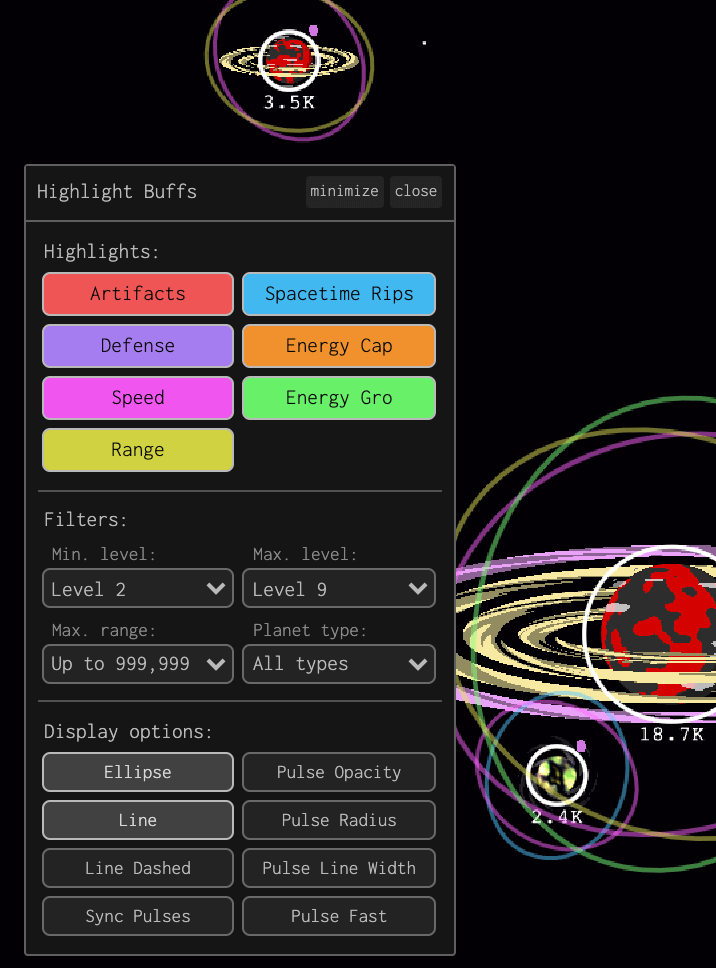
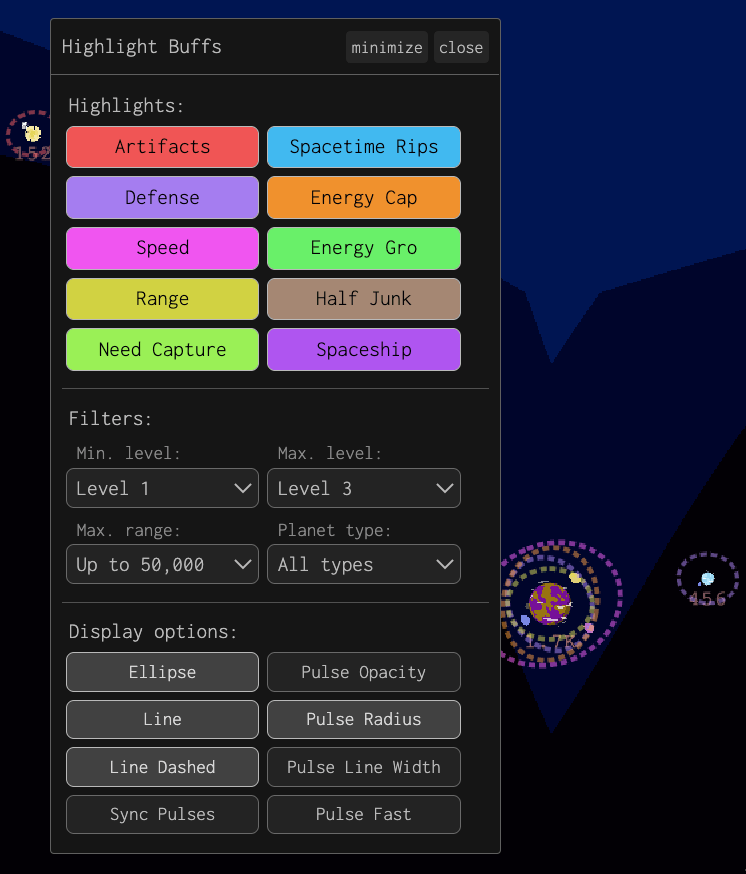
Update description and screenshot

diff --git a/content/productivity/highlight-buffs/index.md b/content/productivity/highlight-buffs/index.md
@@ -1,6 +1,6 @@
 ---
 title: Highlight Buffs
 date: 2021-08-28T19:22:00+07:00
-subtitle: Find all 2x buffs, artifacts, and spacetime rips!
+subtitle: Find all 2x buffs, artifacts, spacetime rips, and more!
 version: 0.6.5
 ---
